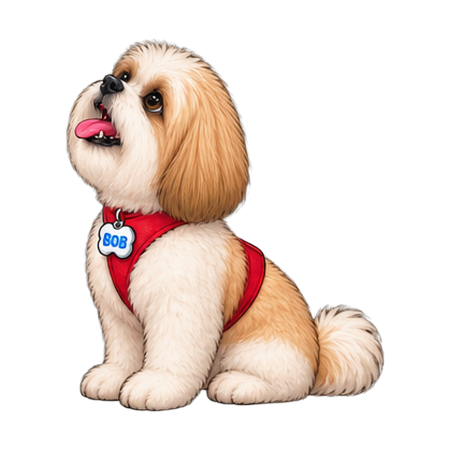
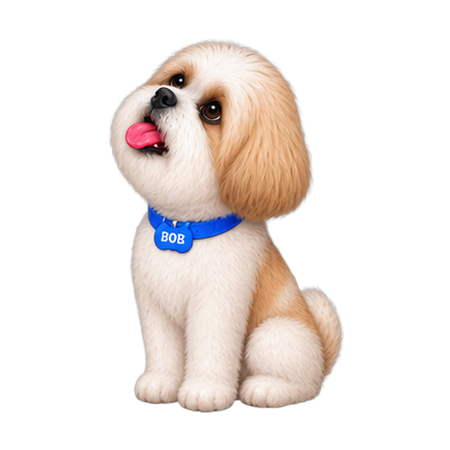
Corrige dois problemas: 1) o GIF de lambida do Bob misturava quadros com angulos de cabeca diferentes (reto vs virado), causando um pulo estranho - remontado so com os quadros de angulo consistente, numa progressao mais natural. 2) a pose 'olhando pra cima' (usada no rodape do PDF) tinha sido mapead

diff --git a/web/src/utils/versao.js b/web/src/utils/versao.js
@@ -1,4 +1,4 @@
 // Atualizo esse número toda vez que envio uma mudança —
 // serve pra você confirmar se o app realmente atualizou no celular.
-export const VERSAO = '1.32.0';
-export const VERSAO_DESCRICAO = 'Atualiza mascotes (Nina e Bob) com as novas ilustracoes + adiciona modo standby quando proxima dose esta a mais de 1h';
+export const VERSAO = '1.32.1';
+export const VERSAO_DESCRICAO = 'Corrige GIF do Bob (angulos inconsistentes) e usa a pose certa (olhando pra cima) no rodape do PDF';
